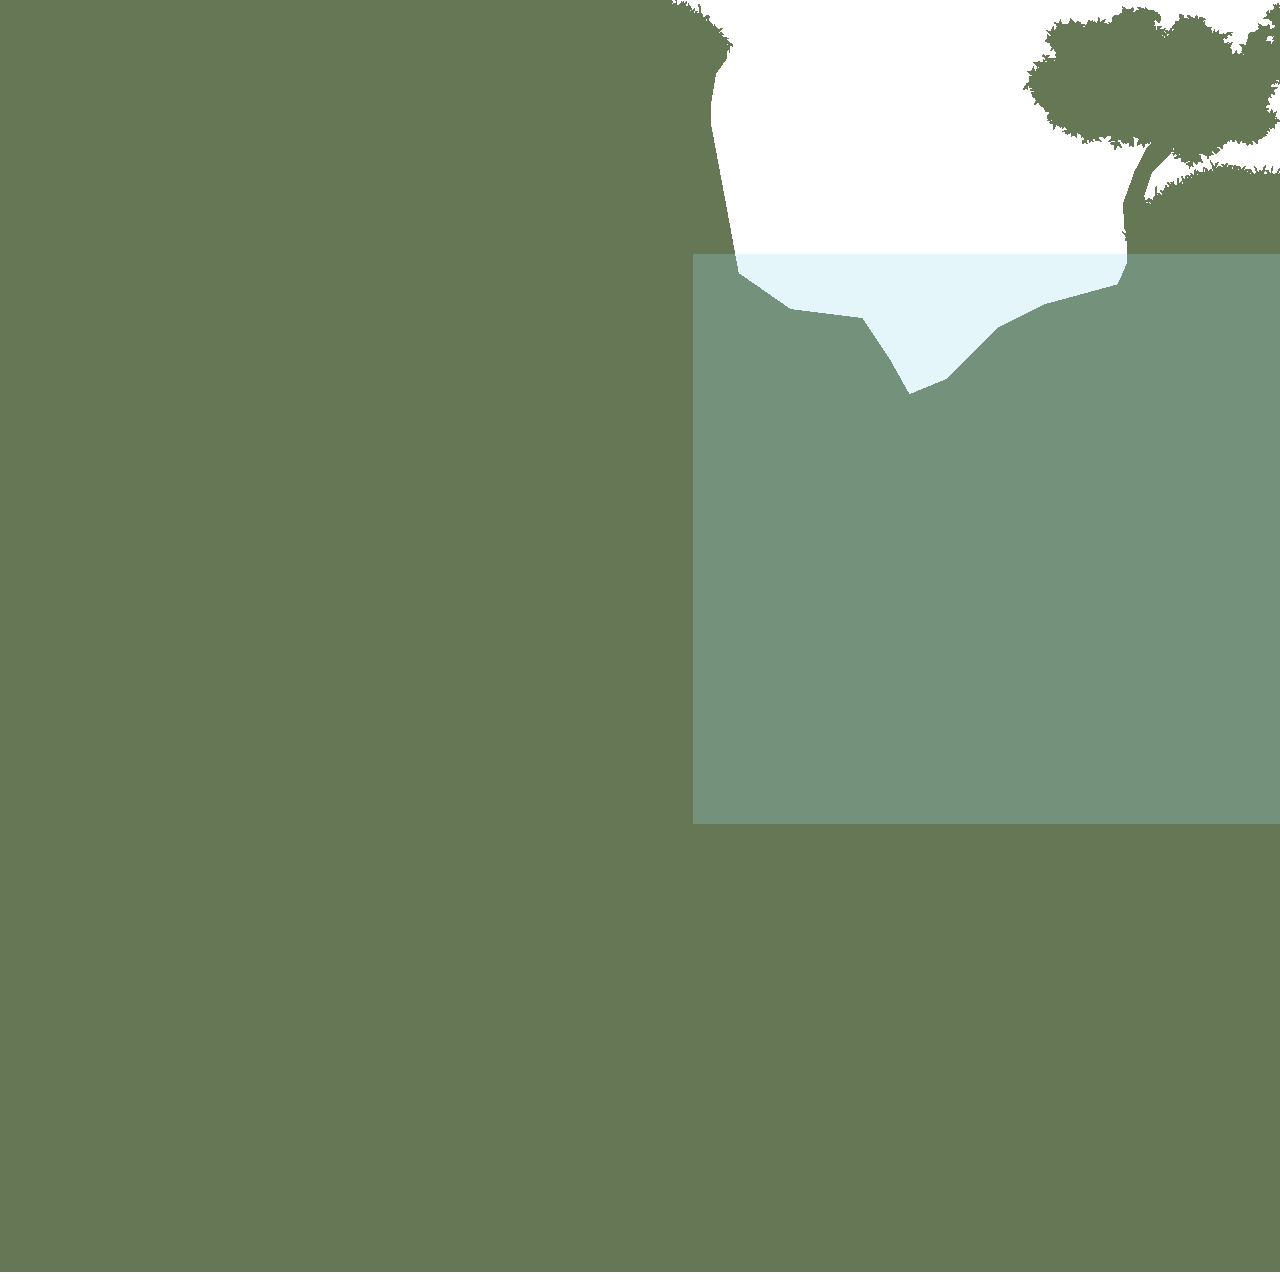
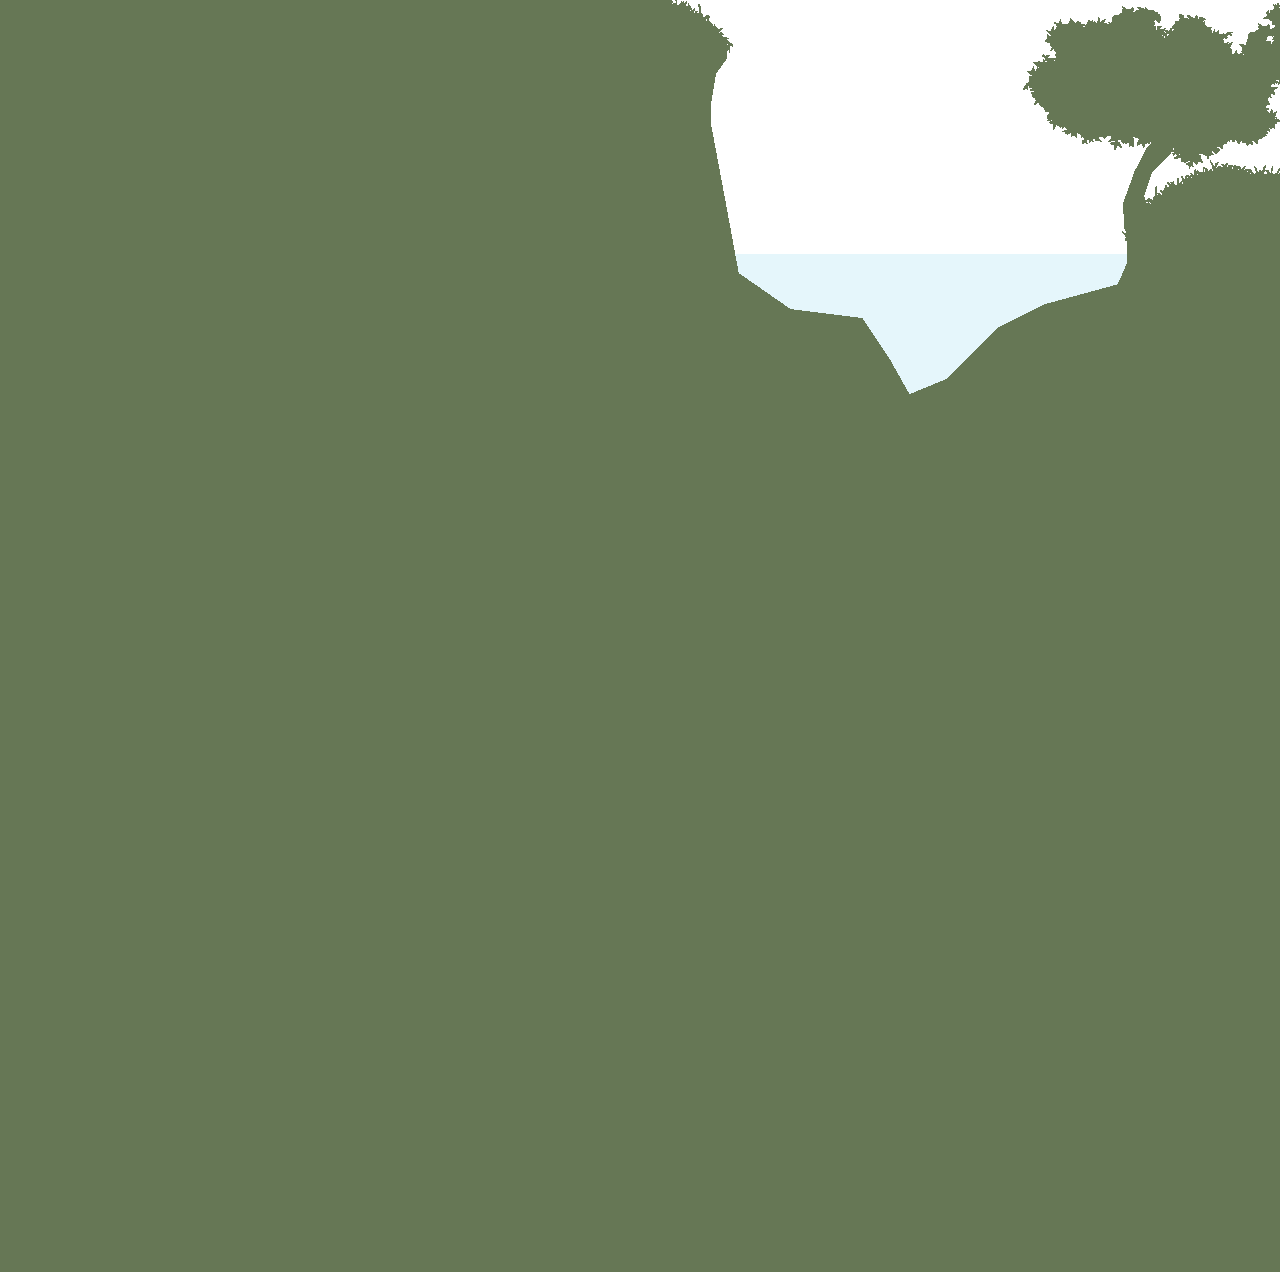
Remove rectangular water tint from forest background tiles

Changed region(s): [[0.5312, 0.1875, 1.0, 0.6562]]

diff --git a/tools/audit_water_tint.py b/tools/audit_water_tint.py
@@ -1,0 +1,46 @@
+"""Find baked rectangular water tint on opaque forest in planet backgrounds.
+
+The old artwork composited 25% aqua water over solid forest, producing
+115,145,123 instead of 102,119,85. Restore only that opaque composite color;
+the translucent water, transparent pixels and shoreline silhouettes remain.
+Run with --repair to fix the source tiles; otherwise this is a regression audit.
+Requires Pillow.
+"""
+import argparse
+from pathlib import Path
+from PIL import Image
+
+FOREST = (102, 119, 85, 255)
+TINTED_FOREST = (115, 145, 123, 255)
+
+
+def audit(root, repair=False):
+    checked, affected = 0, []
+    for path in sorted(root.glob('rover/Planet*/*_P*.png')):
+        with Image.open(path) as source:
+            image = source.convert('RGBA')
+        checked += 1
+        colors = dict((color, count) for count, color in image.getcolors(image.width * image.height))
+        count = colors.get(TINTED_FOREST, 0)
+        if not count or FOREST not in colors:
+            continue
+        affected.append((path.relative_to(root), count))
+        if repair:
+            pixels = image.load()
+            for y in range(image.height):
+                for x in range(image.width):
+                    if pixels[x, y] == TINTED_FOREST:
+                        pixels[x, y] = FOREST
+            image.save(path)
+    return checked, affected
+
+
+if __name__ == '__main__':
+    parser = argparse.ArgumentParser(description=__doc__)
+    parser.add_argument('--repair', action='store_true')
+    args = parser.parse_args()
+    checked, affected = audit(Path(__file__).resolve().parents[1], args.repair)
+    for path, count in affected:
+        print(f'{path}: {count} tinted forest pixels')
+    print(f'{checked} backgrounds checked; {len(affected)} affected tiles' + (' repaired' if args.repair else ''))
+    raise SystemExit(bool(affected) and not args.repair)
